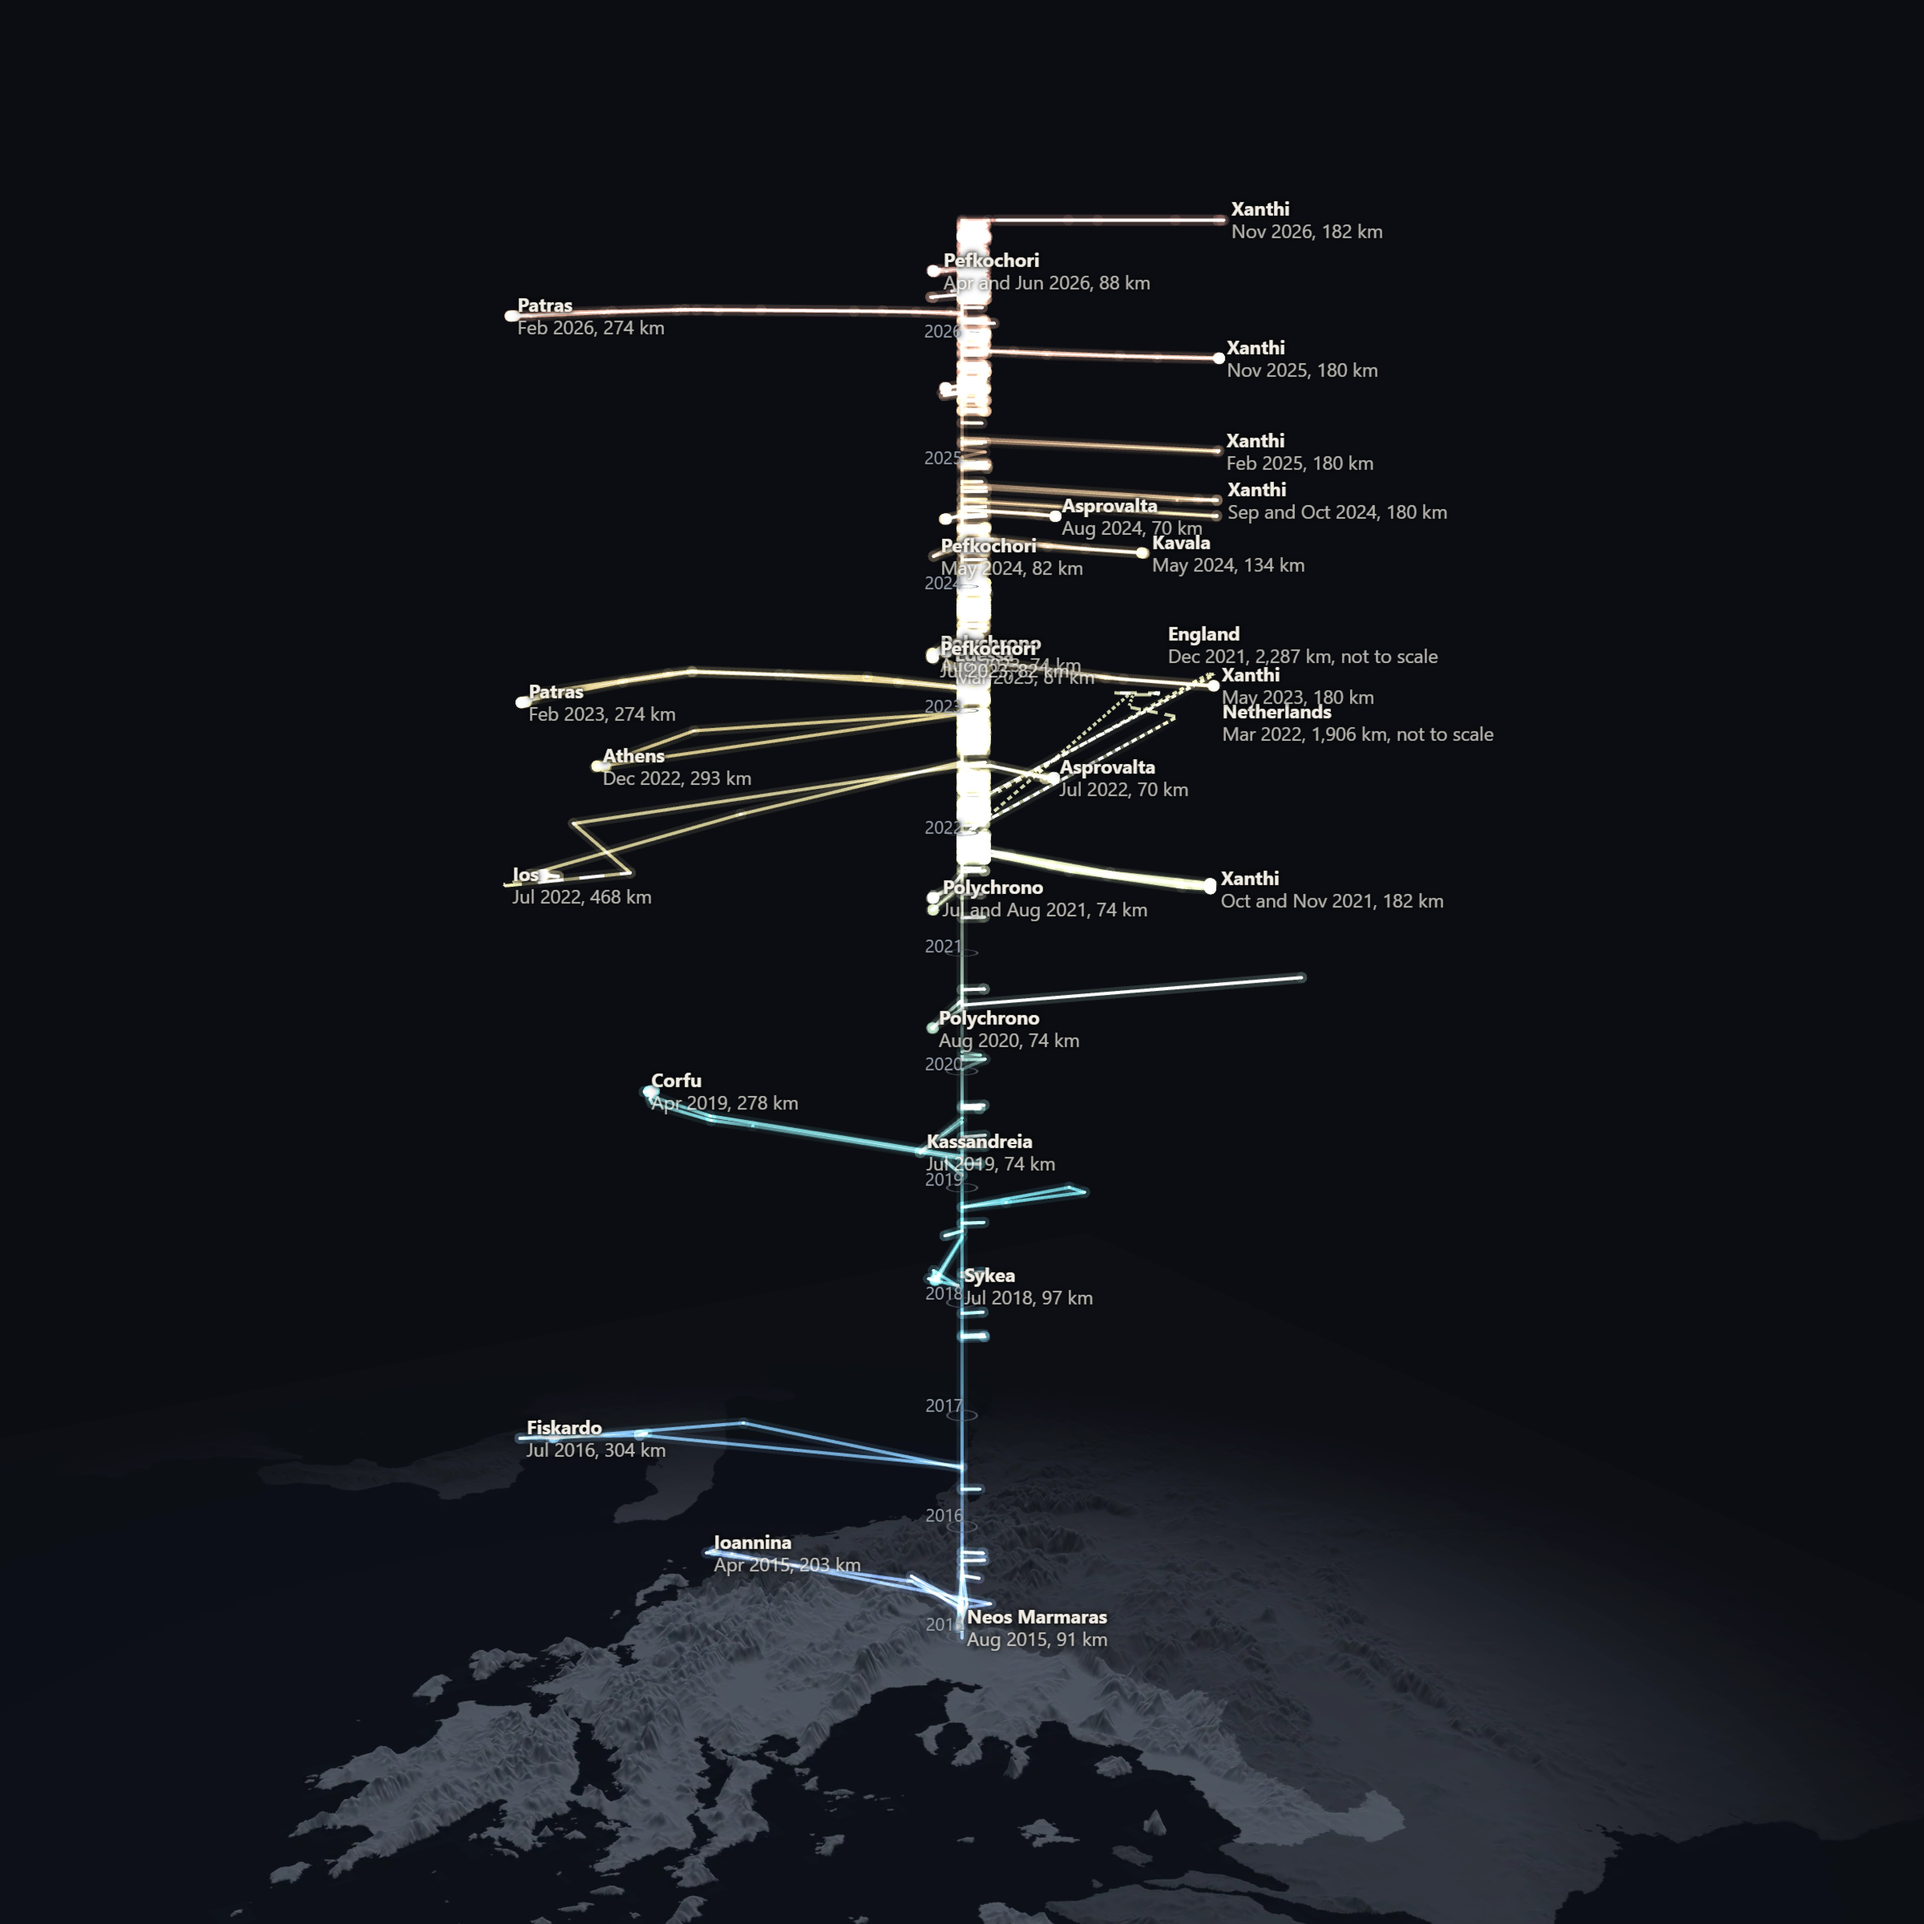
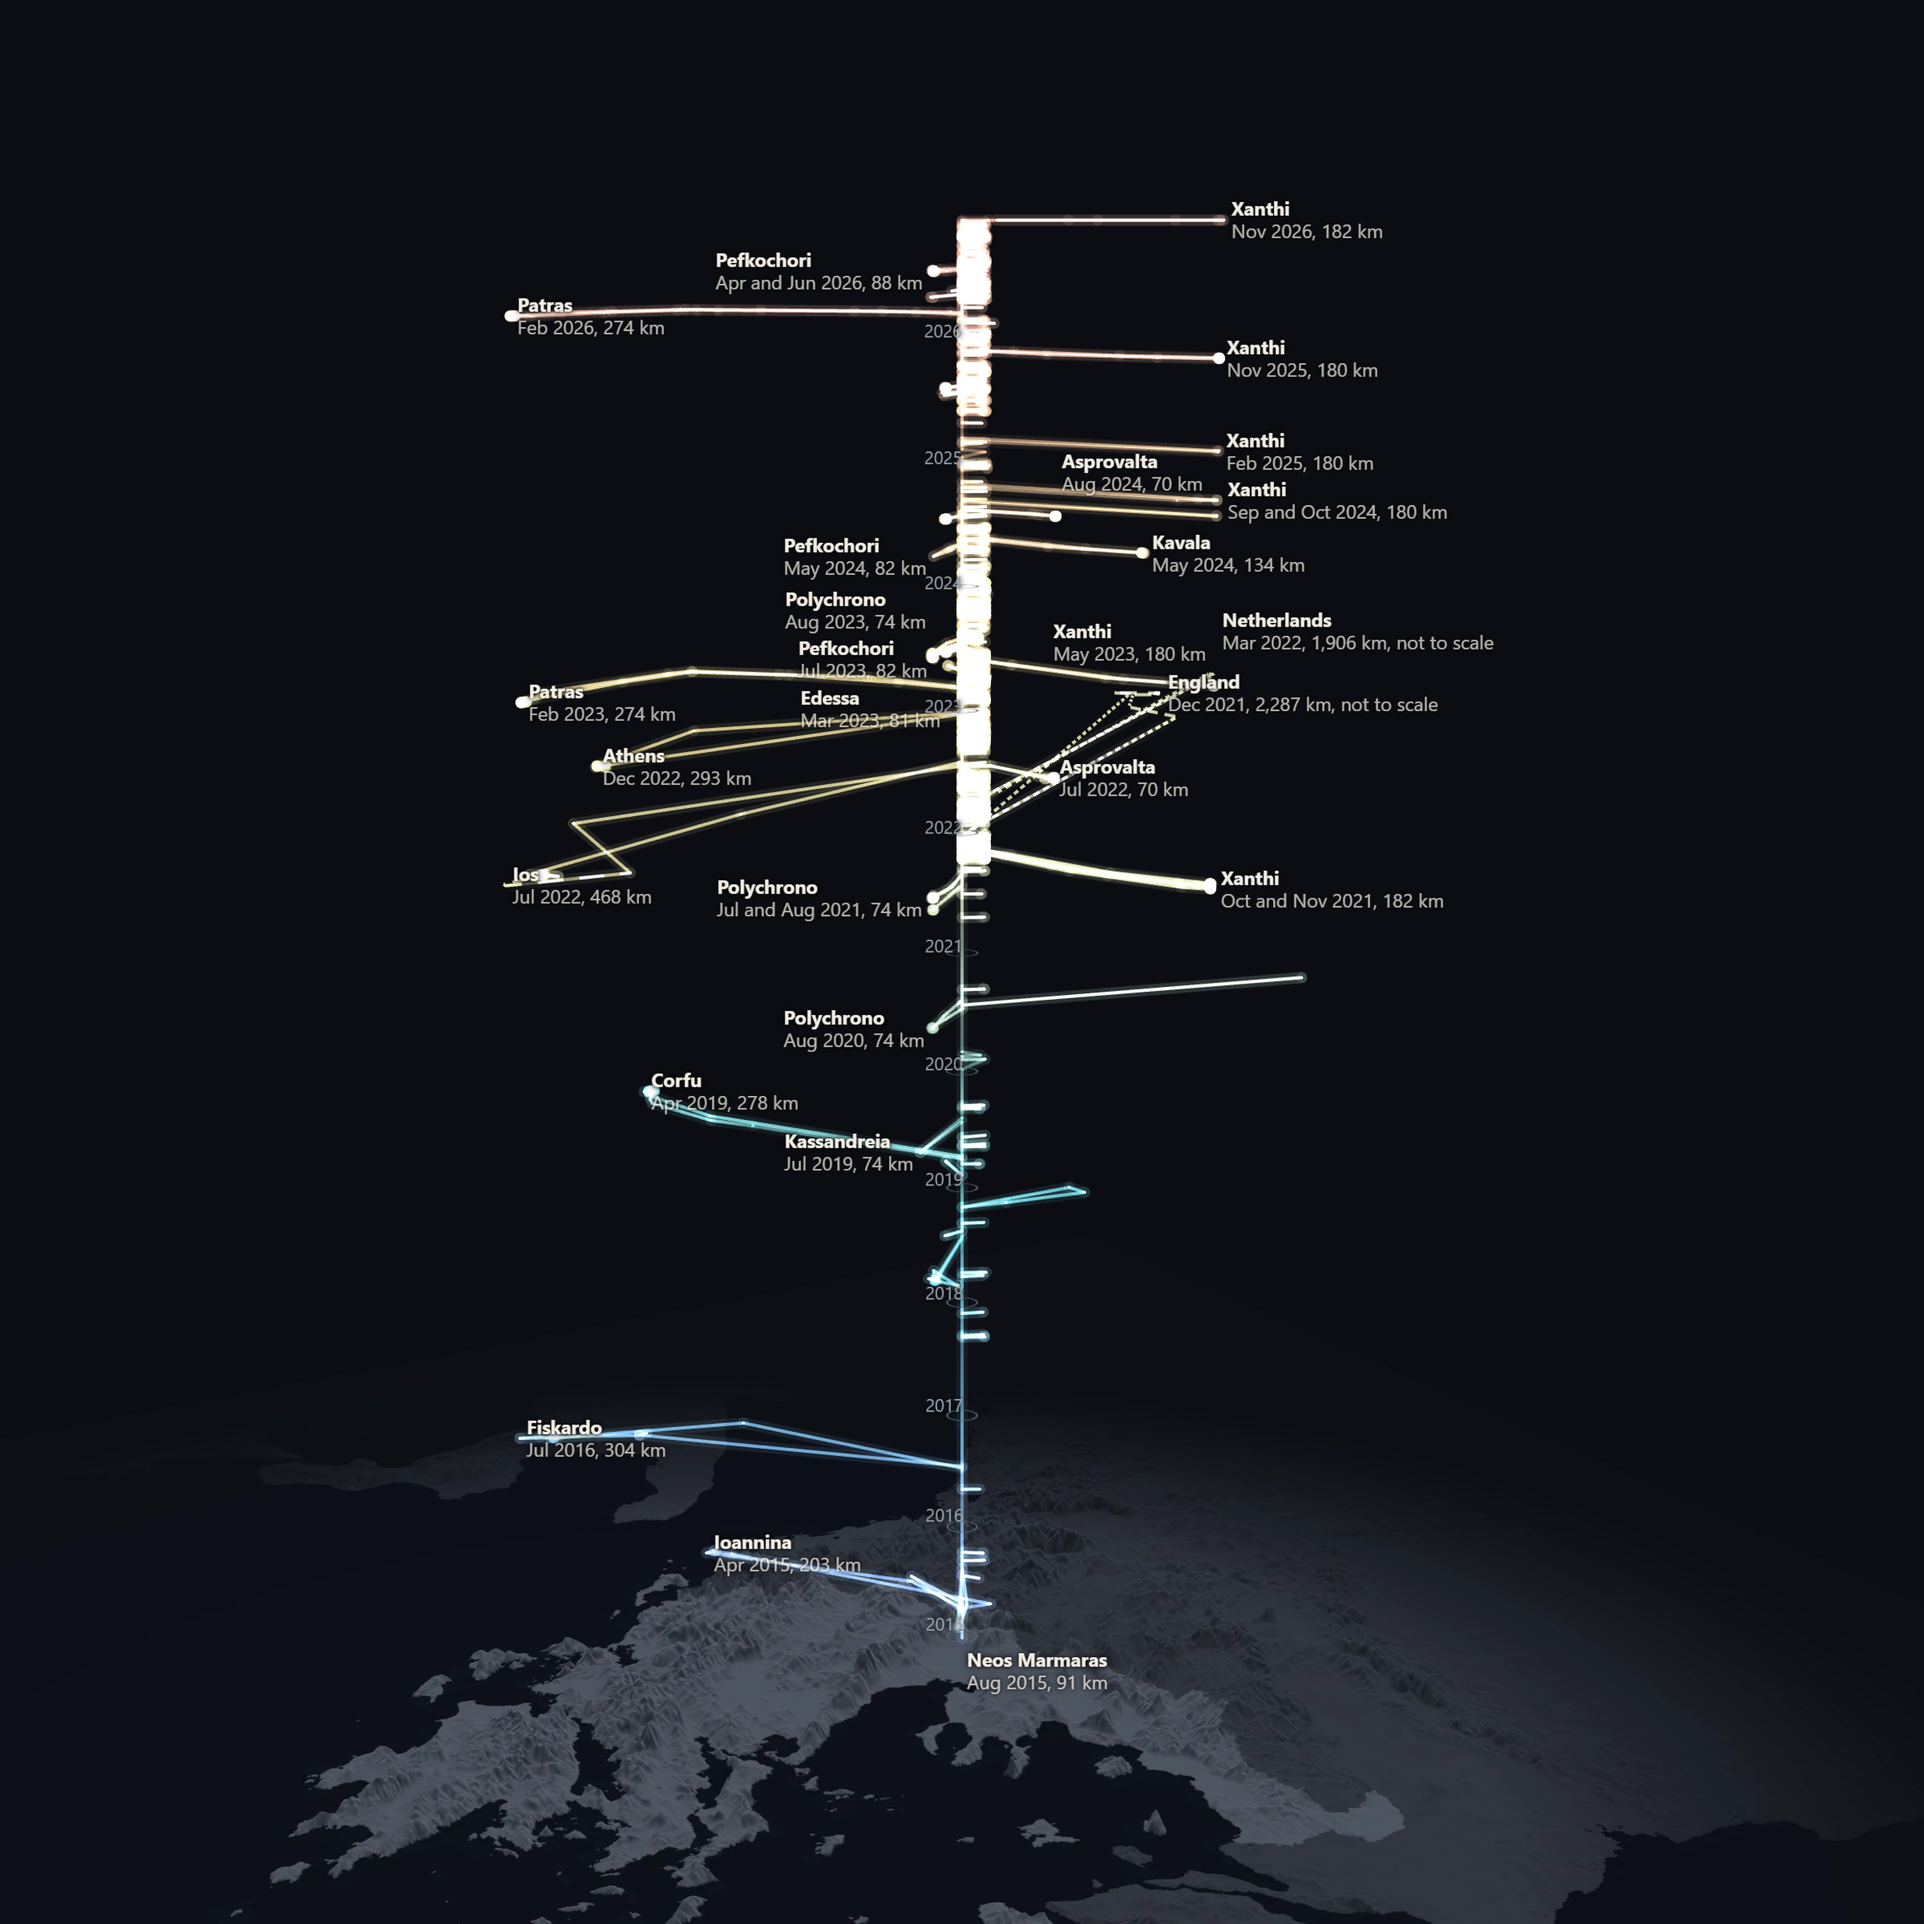
Day 16: labels placed clear of each other

diff --git a/src/content/projects/30dmc-2026-day-16-collaborative.md b/src/content/projects/30dmc-2026-day-16-collaborative.md
@@ -25,7 +25,7 @@ downloads:
     note: 'JPEG · 7016 × 4961 · 2.0 MB'
   - label: 'Square map'
     href: '/downloads/30dmc-2026-day-16-map-square.jpg'
-    note: 'JPEG · 4724 × 4724 · 0.8 MB'
+    note: 'JPEG · 4724 × 4724 · 0.9 MB'
 map: '/data/30dmc-2026-day-16-cube.json'
 mapComponent: 'time-tower'
 mapCaption: 'Drag to turn the tower, scroll to zoom, and play or slide to grow it year by year. Positions are rounded to 1 km, and home is shown only to within 10 km.'
